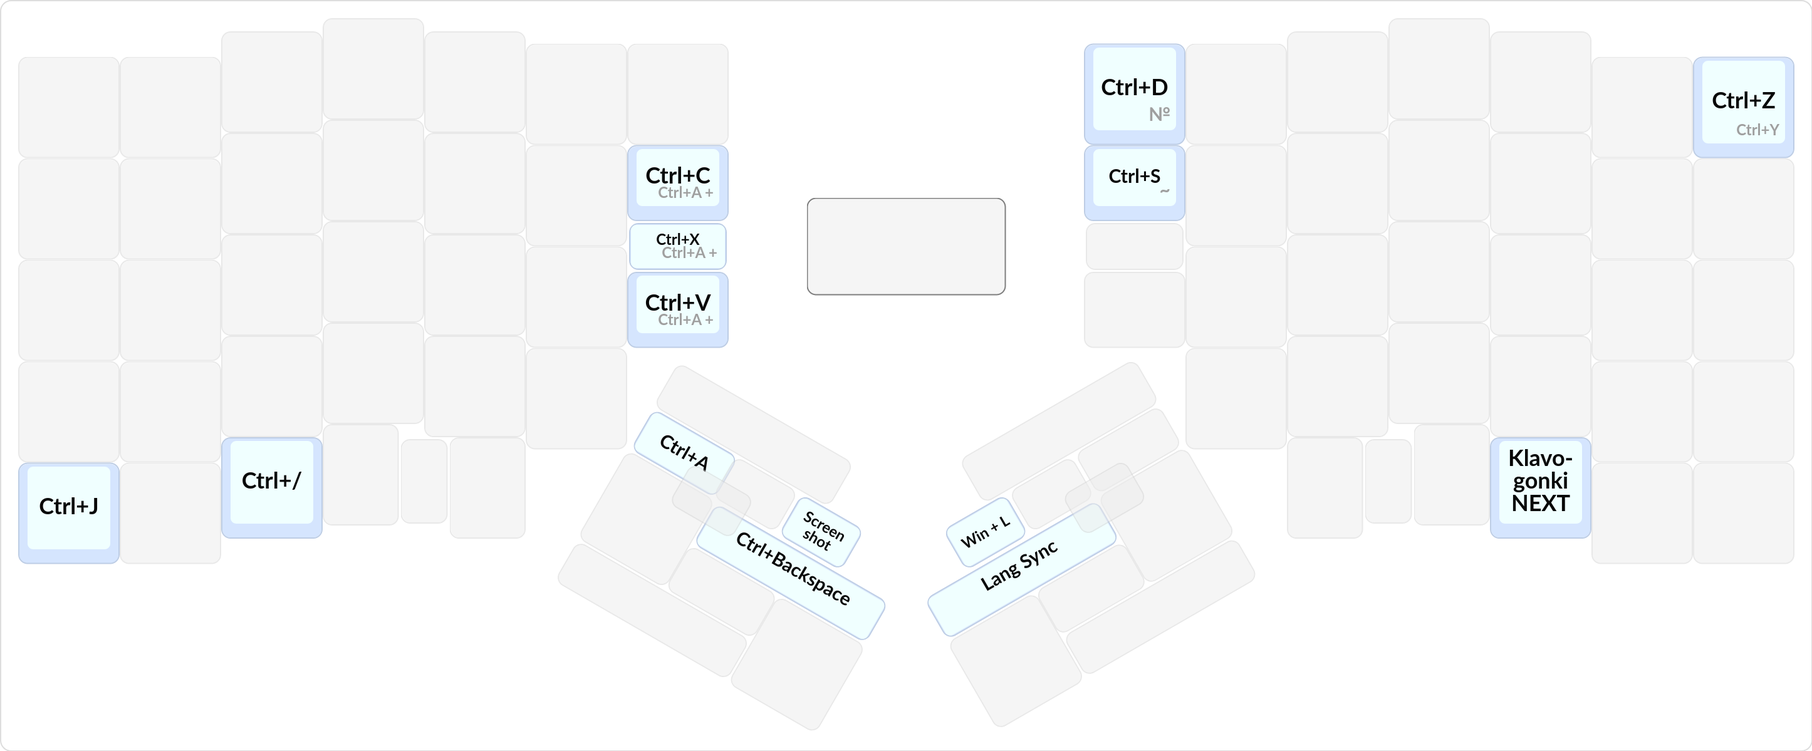
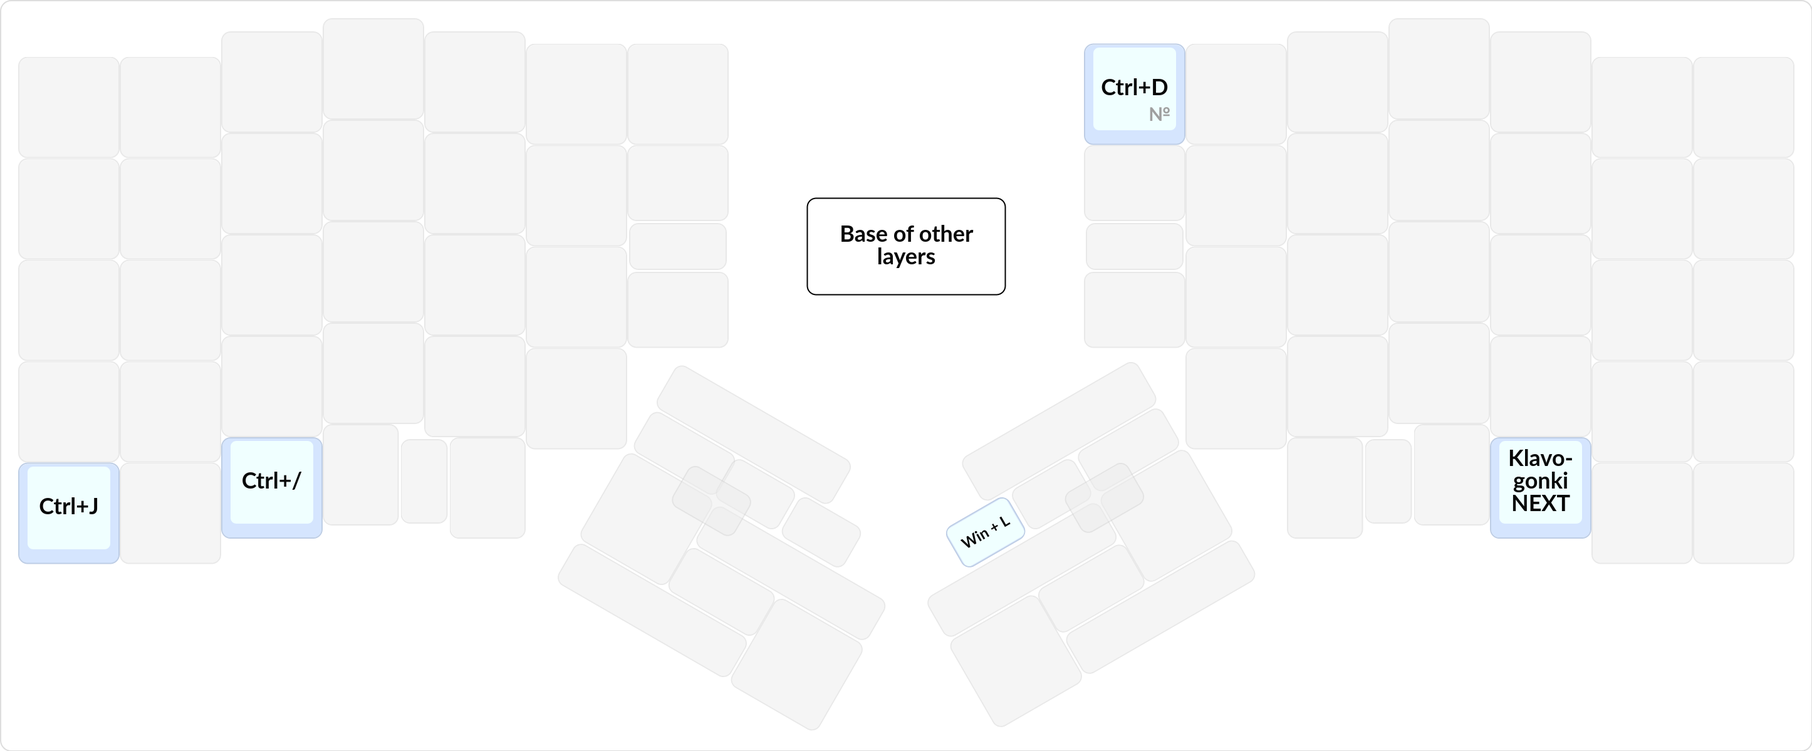
update hotkeys

diff --git a/README.md b/README.md
@@ -112,7 +112,10 @@ _Обратите внимание_ 👀
             * [Backspace](#backspace)
             * [Delete](#delete)
             * [Ctrl+Backspace](#ctrlbackspace)
-         * [Самые частые сочетания с контролом - на основной слой](#самые-частые-сочетания-с-контролом---на-основной-слой)
+         * [Отдельные клавиши для копипасты](#отдельные-клавиши-для-копипасты)
+         * [Ctrl+Z симметрично Esc](#ctrlz-симметрично-esc)
+         * [Ctrl+S на основном слою](#ctrls-на-основном-слою)
+         * [Остальные хоткеи](#остальные-хоткеи)
          * [Самые важные препинаки](#самые-важные-препинаки)
             * [Запятая](#запятая)
             * [Точка](#точка)
@@ -1510,7 +1513,8 @@ _История_ 🛋
 
 ![](img/base_backspace_all.png)
 
-Можно увидеть что у меня очень красиво располагаются клавиши <kbd>Backspace</kbd>, <kbd>Delete</kbd> и <kbd>Ctrl+Backspace</kbd> на аккордах.
+_Это красиво_ ✨
+> Все удаляющие клавиши располагаются близко друг с другом и на аккордах от <kbd>Backspace</kbd>.
 
 #### Backspace
 
@@ -1518,6 +1522,8 @@ _История_ 🛋
 
 _Принцип_ 📖
 > <kbd>Backspace</kbd> должен быть близко. У меня он на большом пальце.
+
+Backspace очень частая клавиша. К сожалению корректная статистика утеряна, но я могу гарантировать, что у меня он находится в ТОП-10.
 
 Как я уже говорил, десятипалу не нравится, когда вы смещаете руку далеко от домашней позиции. Поэтому вредно ставить такую частую клавишу как <kbd>Backspace</kbd> так далеко от домашней позиции, как это делается на СК.
 
@@ -1528,9 +1534,9 @@ _Принцип_ 📖
 ![](img/base_delete.png)
 
 _Принцип_ 📖
-> <kbd>Delete</kbd> должен быть на левой руке, потому что он пригождается при работе с мышью.
+> <kbd>Delete</kbd> должен быть на левой руке.
 
-Delete пригождается при работе в редакторах, где удаление назначено именно на эту клавишу. 
+Delete пригождается при работе в редакторах с мышью в руке, где удаление назначено именно на эту клавишу. 
 
 Я кстати в печати никогда этой клавишей не пользуюсь, ибо привык всё делать <kbd>Backspace</kbd>'ом. Если надо удалить следующий символ, то стрелочки в помощь. Так что я бы вообще за удаление этой клавиши и переназначение всех удалений на <kbd>Backspace</kbd>, и переименование <kbd>Backspace</kbd> в <kbd>Delete</kbd>. Но что поделать, история вставила свои палки в колёса.
 
@@ -1555,41 +1561,67 @@ _История_ 🛋
 ![](img/base_ctrl_backspace.png)
 
 _Принцип_ 📖
-> У меня есть отдельная клавиша для <kbd>Ctrl+Backspace</kbd>, так как это очень частая клавиша.
+> У меня есть отдельная клавиша для <kbd>Ctrl+Backspace</kbd>.
 
 <kbd>Ctrl+Backspace</kbd> - стирает сразу всё слово. Эта клавиша является неизвестной необходимостью. Особенно её ценность я осознал, когда начал использовать в клавогонках, и за счёт чего сильно ускорился. Эта клавишу я по частоте нажимаю примерно часто как и обычный <kbd>Backspace</kbd>, если не чаще.
 
 <kbd>Ctrl+Backspace</kbd> иногда удобнее обычного <kbd>Backspace</kbd>, потому что часто ошибка в слове происходит не в последнем символе, а в середине. И стирать <kbd>Backspace</kbd>'ом три символа - уже долго, ибо нажатие одной и той же клавиши три раза долго само по себе. А потом ещё надо прочитать что ты написал, понять где ошибка, как исправить, и всё это на скорости. Да это дико медленно! И как бы парадоксально это не звучало, чаще всего быстрее стереть всё слово, и напечатать заново. На стирание слова тратится одно нажатие, а печатается заново очень быстро, ибо тренировка печати 99% времени занимает именно быстрый набор слов.
 
-Видно, что при быстром наборе <kbd>Ctrl+Bacspace</kbd> хорошо экономит мыслетопливо по сравнению с обычным <kbd>Bacspace</kbd>.
+Видно, что при быстром наборе <kbd>Ctrl+Bacspace</kbd> хорошо экономит мыслетопливо по сравнению с обычным <kbd>Backspace</kbd>.
 
-Да, кстати, надо отметить, что <kbd>Ctrl+Bacspace</kbd> - это одна клавиша (ну, аккорд), и **я не зажимаю <kbd>Ctrl</kbd>**, чтобы нажать <kbd>Backspace</kbd>. Это вообще называется макрос. И об этом тема следущих пункта.
+Главное чтобы нажатие <kbd>Ctrl+Backspace</kbd> было настолько просто, как и нажатие одной клавиши. В данном случае у меня он стоит на аккорде-двукнопии. И благодаря этому нету синхронизационных проблем, потому что с частыми клавишами проблемы синхронизации очень болезненны. Плюс я уже объяснял на примере этой клавиши какие у меня были проблемы, когда эта клавиша была в слою.
 
-### Самые частые сочетания с контролом - на основной слой
+### Отдельные клавиши для копипасты
 
-![](img/base_hotkeys.png)
+![](img/base_copypaste.png)
 
-Начнём с копипасты. По сути, сейчас во всех программах копипаста спокойно работает на <kbd>Ctrl+CV</kbd>. Но некоторые особо одарённые программы (терминал, emacs) на эти хоткеи делают что-то совсем другое, и кажется как будто с этим ничего не сделаешь. На самом деле сделаешь, и в терминале можно переназначить копипасту на <kbd>Ctrl+CV</kbd>, перенеся убийство программы на другое сочетание. Я выбрал <kbd>Ctrl+J</kbd>. [Здесь](https://github.com/optozorax/dots#terminal) написано как это можно сделать.
+_Принцип_ 📖
+> Отдельные клавиши для копипасты и выделения всего.
 
 Копипаста делается настолько часто, что только она может повлиять очень сильно на частоту использования клавиши <kbd>Ctrl</kbd>. Поэтому копипасту как отдельные клавиши можно вынести на хоткей, например в слой, или на основной слой.  Что я и сделал с самого появления эргодокса. У меня копипаста лежала на этих дальних клавишах для указательного.
 
-Для <kbd>Ctrl+A</kbd> я тоже держу отдельную клавишу, чтобы выделять весь текст. Так же, можно заметить, что у меня при зажатом <kbd>Shift</kbd>'е на копипасте добавляется <kbd>Ctrl+A + ...</kbd>, что означает, что при зажатом <kbd>Shift</kbd>'е, и при нажатии на хоткей <kbd>Ctrl+C</kbd>, сначала перед ним делается <kbd>Ctrl+A</kbd>, это позволяет мне за два нажатия выделить весь текст и скопировать его. Аналогично с <kbd>Ctrl+A + Ctrl+V</kbd>, и <kbd>Ctrl+A + Ctrl+X</kbd>. И копирование всего и вставка вместо всего - невероятно частые вещи, особенно когда из одного маленького поля копируешь в другое маленькое поле.
+Сейчас почти во всех программах копипаста спокойно работает на <kbd>Ctrl+C/V</kbd>. Но некоторые особо одарённые программы (терминал, emacs) на эти хоткеи делают что-то совсем другое, и это неприятно. Благо возможно настроить. Я пользуюсь только терминалом, поэтому настроил его: в нём можно переназначить копипасту на <kbd>Ctrl+C/V</kbd>, перенеся убийство программы на другое сочетание. Я выбрал <kbd>Ctrl+J</kbd>. [Здесь](https://github.com/optozorax/dots#terminal) написано как это можно сделать.
 
-Так же можно заметить, что у меня <kbd>Ctrl+X</kbd> находится на аккорде между <kbd>Ctrl+C</kbd> и <kbd>Ctrl+V</kbd>. В целом это довольно удобно, и клавиша экономится.
+Для <kbd>Ctrl+A</kbd> я тоже держу отдельную клавишу, чтобы выделять весь текст, иногда пригождается в графических програмах.
 
-Далее, <kbd>Ctrl+Z</kbd> у меня размещается симметрично <kbd>Esc</kbd>, потому что и смысл у них симметричный. И когда происходит что-то неладное, фигачить по этой самой крайней кнопке очень удобно. Плюс, с зажатым <kbd>Shift</kbd>'ом, <kbd>Ctrl+Z</kbd> превращается в <kbd>Ctrl+Y</kbd>, что является повторением отменённого действия.
+Так же, можно заметить, что у меня при зажатом <kbd>Shift</kbd>'е на копипасте добавляется <kbd>Ctrl+A + ...</kbd>, что означает, что при зажатом <kbd>Shift</kbd>'е, и при нажатии на хоткей <kbd>Ctrl+C</kbd>, сначала перед ним делается <kbd>Ctrl+A</kbd>, а затем нажимается собственно сам <kbd>Ctrl+C</kbd>. Это позволяет мне за два нажатия выделить весь текст и скопировать его. Аналогично с <kbd>Ctrl+A + Ctrl+V</kbd>, и <kbd>Ctrl+A + Ctrl+X</kbd>. И копирование всего и вставка вместо всего - невероятно частые вещи, особенно когда из одного маленького поля копируешь в другое маленькое поле.
 
-Следующая очень частая клавиша (пожалуй самая частая вообще среди всех хоткеев у меня) - <kbd>Ctrl+S</kbd>. Я настолько параноик, что постоянно нажимаю <kbd>Ctrl+S</kbd>, чтобы сохранить файл, поэтому она у меня такая частая, и я решил вынести её на основной слой на отдельную клавишу, чтобы успокоить свои нервы. Она нажимается в 1.5% все нажатий вообще. Так же эта клавиша используется в расширении `Rust Enhanced` в моём `Sublime Text 3`, чтобы сохранить файл и передать его на проверку компилятору, чтобы моментально вывести ошибки, так что теперь это не только клавиша для успокоения нервов.
+_Это красиво_ ✨
+> У меня <kbd>Ctrl+X</kbd> находится на аккорде между <kbd>Ctrl+C</kbd> и <kbd>Ctrl+V</kbd>.
 
-В самом краю у меня находится клавиша <kbd>Ctrl+J</kbd> для убийства текущей программы в консоли.
+### Ctrl+Z симметрично Esc
 
-Ещё один полезный хоткей - <kbd>Ctrl+/</kbd>, который в `Sublime Text 3` комментирует выделенный участок кода.
+![](img/base_ctrl_z.png)
 
-Следующий хоткей - <kbd>Ctrl+D</kbd>, который используется в `Sublime Text 3` для создания множественного курсора из текущего выделения.
+_Принцип_ 📖
+> <kbd>Ctrl+Z</kbd> должен располагаться симметрично <kbd>Esc</kbd>.
 
-Ну и конечно, <kbd>Ctrl+Bacspace</kbd>, о котором я рассказывал ранее.
+<kbd>Esc</kbd> и <kbd>Ctrl+Z</kbd> выполняют похожие функции - отмена.
 
-На этом всё. Самые частые комбинации с контролом рассмотрены, вам я советую из этого подчерпнуть только то как я поставил копипасту, <kbd>Ctrl+ZY</kbd> и <kbd>Ctrl+Backspace</kbd>.
+_Это красиво_ ✨
+> Благодаря чему мне кажется что очень красиво разместить <kbd>Ctrl+Z</kbd> симметрично <kbd>Esc</kbd>.
+
+Так же при зажатом шифте у меня на месте <kbd>Ctrl+Z</kbd> нажимается хоткей "повторить отменённое действие" - <kbd>Ctrl+Y</kbd>. Очень удобно, когда нажал слишком много отмены.
+
+### Ctrl+S на основном слою
+
+![](img/base_ctrl_s.png)
+
+Это может показаться диким, но данное сочетание занимало 1.5% всех моих нажатий на клавиатуре. Видимо я очень нервный, раз так часто сохраняю программу. Чтобы успокоить свои нервы я решил вынести её на основной слой. 
+
+Плюс в последнее время она мне пригождается в расширении `Rust Enhanced`. Когда я сохраняю файл, запускается проверка кода компилятором, и прямо в `Sublime Text 3` выводятся ошибки. Мне кажется это намного удобнее, чем когда ошибки подчёркиваются и раздражают во время написания кода.
+
+### Остальные хоткеи
+
+![](img/base_hotkeys.png)
+
+Тут особо ничего интересного нету. Рассказываю просто чтобы было понятно.
+
+* <kbd>Ctrl+J</kbd> убивает текущую программу в консоли.
+* <kbd>Ctrl+/</kbd> в `Sublime Text 3` комментирует выделенный участок кода.
+* <kbd>Ctrl+D</kbd> используется в `Sublime Text 3` для создания множественного курсора из текущего выделения.
+* <kbd>Win+L</kbd> блокирует компьютер. Обычно используется в офисе во время ухода на обед.
+* <kbd>Klavogonki NEXT</kbd> переходит в следующий заезд на клавогонках. Данная клавиша просто нажимает: <kbd>Tab</kbd> <kbd>Tab</kbd> <kbd>Ctrl+→</kbd>.
 
 ### Самые важные препинаки
 
